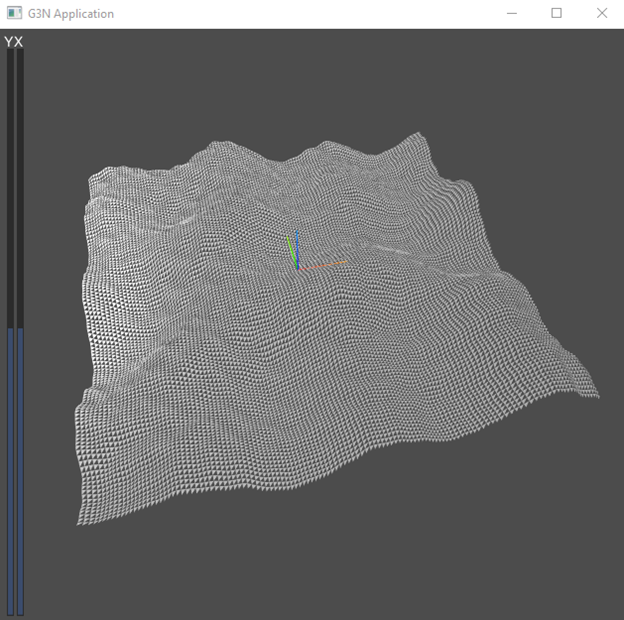
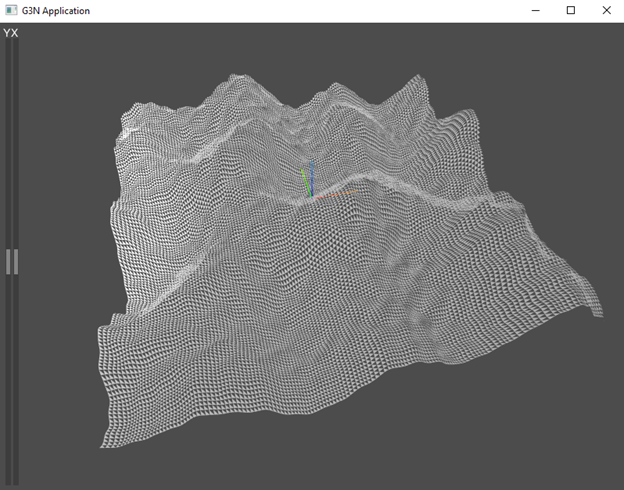
Improved the initial terrain generation, clarifications on feasible terrain/gradient sizes, and new featured picture

diff --git a/generate.go b/generate.go
@@ -95,18 +95,18 @@ func (board *GradientBoard) initialize(gradientWidth, gradientHeight uint32, see
 //	return geom
 //}
 
-func (board *GradientBoard) GenerateSurfaceGeometry(terrainWidth, terrrainHeight uint16, m float32) *geometry.Geometry {
-	incY := float32(board.yBounds.size()) / float32(terrrainHeight)
+func (board *GradientBoard) GenerateSurfaceGeometry(terrainWidth, terrainHeight uint16, m float32) *geometry.Geometry {
+	incY := float32(board.yBounds.size()) / float32(terrainHeight)
 	incX := float32(board.xBounds.size()) / float32(terrainWidth)
-	positions := math32.NewArrayF32(0, int(terrrainHeight*terrainWidth))
-	indices := math32.NewArrayU32(0, int((terrrainHeight-1)*(terrainWidth-1))*2)
+	positions := math32.NewArrayF32(0, int(terrainHeight*terrainWidth))
+	indices := math32.NewArrayU32(0, int((terrainHeight-1)*(terrainWidth-1))*2)
 	index := uint32(0)
 	for y := float32(board.yBounds.lower); y <= float32(board.yBounds.upper); y += incY {
 		for x := float32(board.xBounds.lower); x <= float32(board.xBounds.upper); x += incX {
 			height := float32(perlinNoise(*board, x, y)) * m
 			positions.Append(x, y, height, 0, 0, 1)
 			if x+incX <= float32(board.xBounds.upper) && y+incY <= float32(board.yBounds.upper) {
-				indices.Append(index, index+uint32(terrainWidth)+2, index+uint32(terrrainHeight)+1)
+				indices.Append(index, index+uint32(terrainWidth)+2, index+uint32(terrainHeight)+1)
 			}
 			index++
 		}
@@ -163,10 +163,10 @@ func (terrain *BipartiteTerrain) initialize(macro, micro GradientBoard, terrainW
  * Uses the perlin noise algorithm and the magnitude and proportion metrics to calculate the terrain heights
  */
 func (terrain *BipartiteTerrain) GenerateStackedSurfaceGeometry() {
-	incY1 := float32(terrain.macro.yBounds.size()) / float32(terrain.jointHeight)
-	incX1 := float32(terrain.macro.xBounds.size()) / float32(terrain.jointWidth)
-	incY2 := float32(terrain.micro.yBounds.size()) / float32(terrain.jointHeight)
-	incX2 := float32(terrain.micro.xBounds.size()) / float32(terrain.jointWidth)
+	incY1 := float32(terrain.macro.yBounds.size()) / float32(terrain.jointHeight-1)
+	incX1 := float32(terrain.macro.xBounds.size()) / float32(terrain.jointWidth-1)
+	incY2 := float32(terrain.micro.yBounds.size()) / float32(terrain.jointHeight-1)
+	incX2 := float32(terrain.micro.xBounds.size()) / float32(terrain.jointWidth-1)
 
 	positions := math32.NewArrayF32(0, int(terrain.jointHeight*terrain.jointWidth))
 	indices := math32.NewArrayU32(0, int((terrain.jointHeight-1)*(terrain.jointWidth-1)>>1))
@@ -192,11 +192,16 @@ func (terrain *BipartiteTerrain) GenerateStackedSurfaceGeometry() {
 			height1 := float32((perlinNoise(terrain.macro, x1, y1)) * terrain.prop)
 			height2 := float32((perlinNoise(terrain.micro, x2, y2)) * (1 - terrain.prop))
 			positions.Append(x1, y1, (height1+height2)*terrain.m, 0, 0, 1)
-			if x1+incX1 < float32(terrain.macro.xBounds.upper) && y1+incY1 < float32(terrain.macro.yBounds.upper) {
-				indices.Append(index, index+uint32(terrain.jointWidth+1)+1, index+uint32(terrain.jointWidth+1))
+			//if x1+incX1 < float32(terrain.macro.xBounds.upper) && y1+incY1 < float32(terrain.macro.yBounds.upper) {
+			//	indices.Append(index, index+uint32(terrain.jointWidth)+1, index+uint32(terrain.jointWidth))
+			//}
+			if index < (uint32(terrain.jointWidth*terrain.jointHeight)-1)-uint32(terrain.jointWidth) && (index+1)%uint32(terrain.jointWidth) != 0 {
+				//indices.Append(index, index+uint32(terrain.jointWidth)+1, index+uint32(terrain.jointWidth))
+				indices.Append(index, index+1, index+uint32(terrain.jointWidth))
 			}
 			index++
 		}
+		fmt.Println()
 	}
 
 	terrain.geom.SetIndices(indices)
@@ -219,8 +224,8 @@ func (terrain *BipartiteTerrain) MoveLeft(amount int) {
 	//fmt.Println(-amount)
 	terrain.geom.OperateOnVertices(func(vertex *math32.Vector3) bool {
 		//fmt.Print(i % int(terrain.jointWidth+1))
-		if i%int(terrain.jointWidth+1) < -amount {
-			if i%int(terrain.jointWidth+1) == 0 {
+		if i%int(terrain.jointWidth) < -amount {
+			if i%int(terrain.jointWidth) == 0 {
 				back = 0
 				//fmt.Println()
 			}
@@ -262,7 +267,7 @@ func (terrain *BipartiteTerrain) MoveRight(amount int) {
 	incY2 := float32(terrain.micro.yBounds.size()) / float32(terrain.jointHeight)
 	i := 0
 	terrain.geom.OperateOnVertices(func(vertex *math32.Vector3) bool {
-		if (i+amount)%int(terrain.jointWidth+1) < amount {
+		if (i+amount)%int(terrain.jointWidth) < amount {
 			x1 := vertex.X + (float32(terrain.xDisp) * incX1)
 			x2 := (x1 / incX1) * incX2
 			y1 := vertex.Y + (float32(terrain.yDisp) * incY1)
@@ -293,7 +298,7 @@ func (terrain *BipartiteTerrain) MoveDown(amount int) {
 		//if i%int(terrain.jointWidth+1) == 0 {
 		//	fmt.Println()
 		//}
-		if i < int(terrain.jointWidth+1)*(-amount) {
+		if i < int(terrain.jointWidth)*(-amount) {
 			line[i] = vertex.Z
 			x1 := vertex.X + (float32(terrain.xDisp) * incX1)
 			x2 := (x1 / incX1) * incX2
@@ -303,7 +308,7 @@ func (terrain *BipartiteTerrain) MoveDown(amount int) {
 			height2 := float32((perlinNoise(terrain.micro, x2, y2)) * (1 - terrain.prop))
 			vertex.Z = (height1 + height2) * terrain.m
 			//fmt.Print(" Generat ")
-		} else if pivot < int(terrain.jointWidth+1)*(-amount)-1 {
+		} else if pivot < int(terrain.jointWidth)*(-amount)-1 {
 			temp := vertex.Z
 			vertex.Z = line[pivot]
 			line[pivot] = temp
@@ -330,7 +335,7 @@ func (terrain *BipartiteTerrain) MoveUp(amount int) {
 	incY2 := float32(terrain.micro.yBounds.size()) / float32(terrain.jointHeight)
 	i := 0
 	terrain.geom.OperateOnVertices(func(vertex *math32.Vector3) bool {
-		if i >= int(terrain.jointWidth+1)*(int(terrain.jointHeight)-amount) {
+		if i >= int(terrain.jointWidth)*(int(terrain.jointHeight)-amount) {
 			x1 := vertex.X + (float32(terrain.xDisp) * incX1)
 			x2 := (x1 / incX1) * incX2
 			y1 := vertex.Y + (float32(terrain.yDisp) * incY1)
@@ -339,7 +344,7 @@ func (terrain *BipartiteTerrain) MoveUp(amount int) {
 			height2 := float32((perlinNoise(terrain.micro, x2, y2)) * (1 - terrain.prop))
 			vertex.Z = (height1 + height2) * terrain.m
 		} else {
-			vertex.Z = vbo[i*6+(int(terrain.jointWidth+1)*6*amount)+2]
+			vertex.Z = vbo[i*6+(int(terrain.jointWidth)*6*amount)+2]
 		}
 		i++
 		return false

diff --git a/main.go b/main.go
@@ -17,8 +17,12 @@ import (
 	"github.com/g3n/engine/window"
 )
 
-const TERRAIN_WIDTH = 127
-const TERRAIN_HEIGHT = 127
+// Make the terrain widths odd numbers
+// Some terrain sizes do not work because the gradients will not divide rationally into them. It will be clear after running if the terrain/gradient sizes failed:
+//    - A diagonal section of the terrain will not be rendered
+//    - An extra, large gray triangle will be rendered in the topside of the terrain.
+const TERRAIN_WIDTH = 151
+const TERRAIN_HEIGHT = 151
 
 // Gradient widths need to be odd numbers
 const GRADIENT_WIDTH_B1 = 5
@@ -27,10 +31,10 @@ const GRADIENT_WIDTH_B2 = 27
 const GRADIENT_HEIGHT_B2 = 27
 
 // Magnitude / Amplitude of the terrain
-const M = 1.0
+const M = 1.2
 
 // The significiance of macro and micro componenets of the bipartite terrain
-const PROPORTION = 0.89
+const PROPORTION = 0.91
 
 // Seed for the macro gradient board
 const SEED_1 = 43
